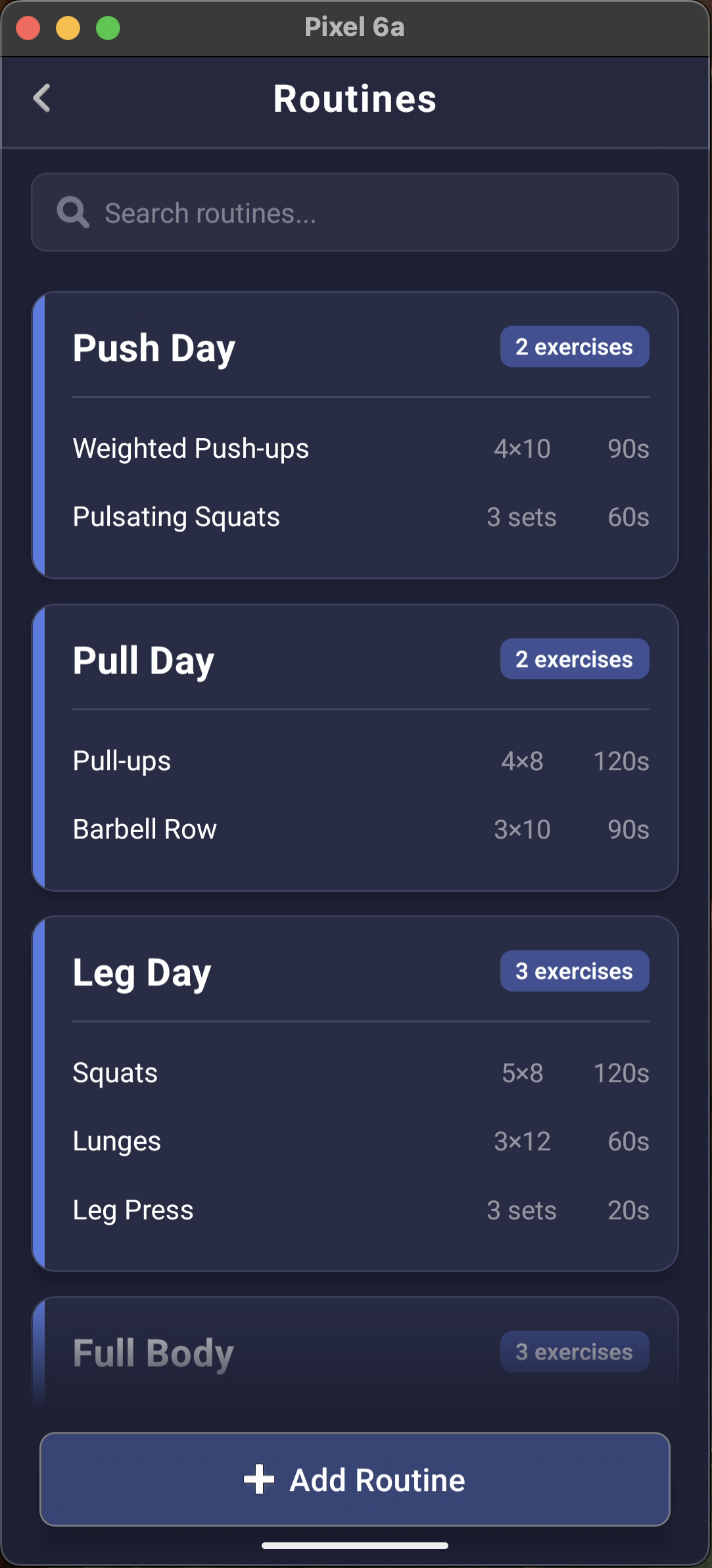
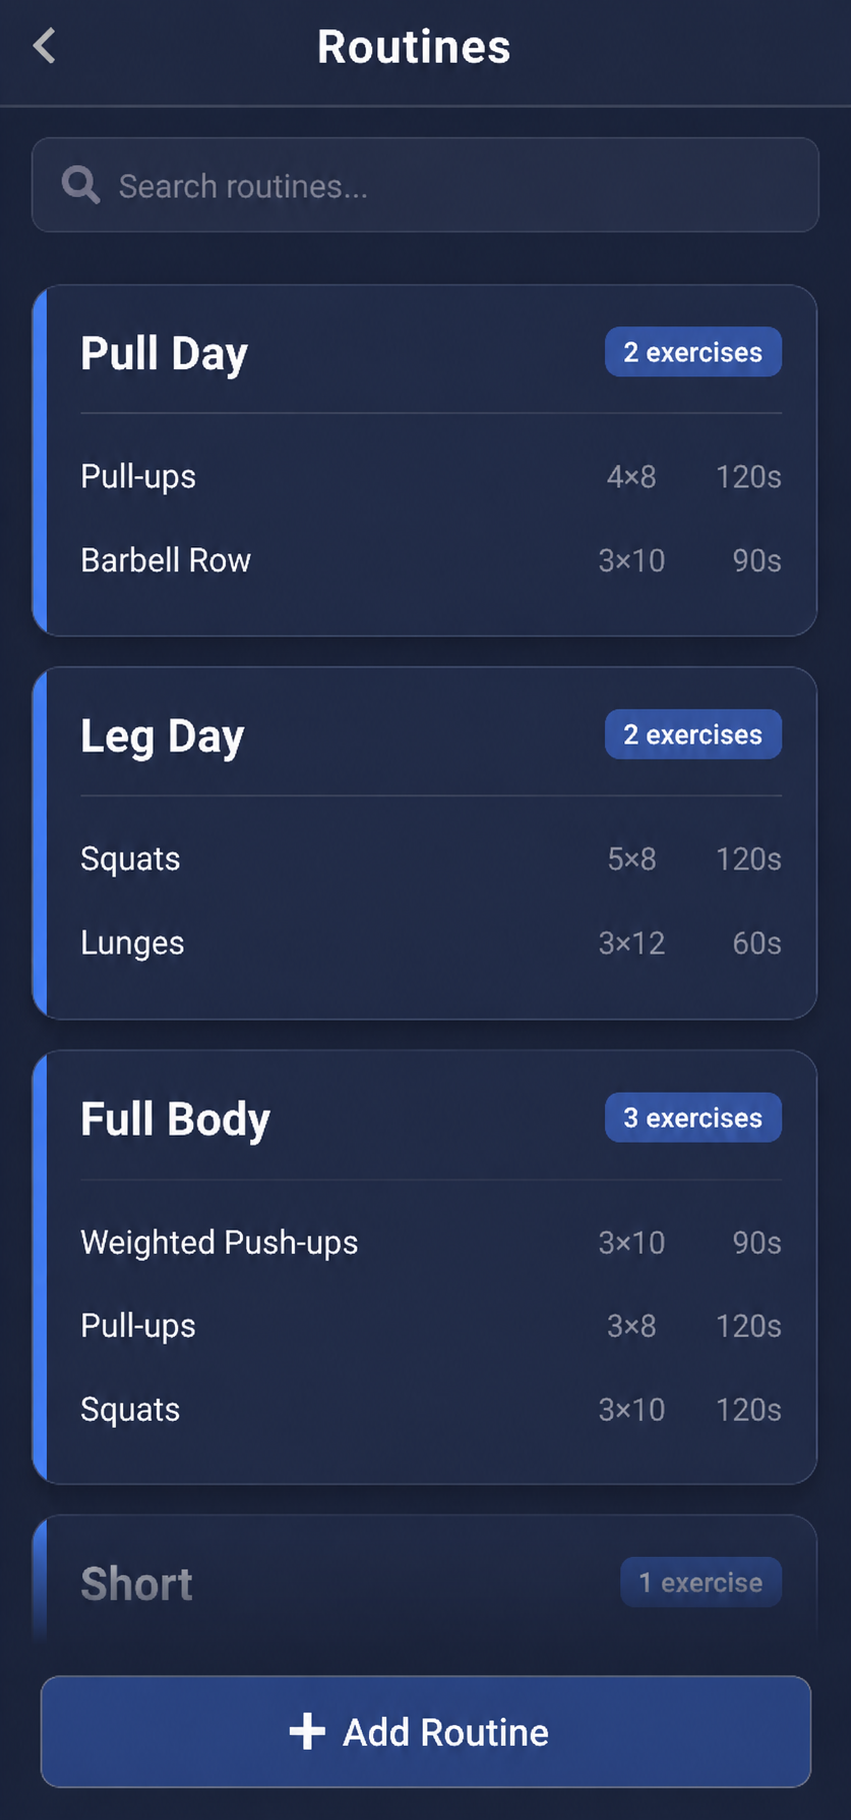
-

diff --git a/src/screens/RoutinesFaqScreen.tsx b/src/screens/RoutinesFaqScreen.tsx
@@ -181,7 +181,13 @@ const RoutinesFaqScreen = () => {
                     </Text>
                 </SectionRailBlock>
 
-                <ScreenshotImage source={faq_routines_list} aspectRatio={712 / 1568} />
+                <View style={{ marginTop: normalizeHeight(20) }}>
+                    <ScreenshotImage
+                        source={faq_routines_list}
+                        aspectRatio={851 / 1820}
+                        caption={<>{'Browse, create, and edit your workout routines\nfrom the '}<Text style={{ color: 'rgba(255,255,255,0.78)', fontWeight: '600' }}>Routines</Text>{' page'}</>}
+                    />
+                </View>
 
             </ScrollView>
         </View>
@@ -324,7 +330,7 @@ const styles = StyleSheet.create({
     },
     // Benefit items
     benefitsList: {
-        gap: normalizeHeight(36),
+        gap: normalizeHeight(28),
     },
     benefitItemRow: {
         flexDirection: 'row',
@@ -350,7 +356,7 @@ const styles = StyleSheet.create({
     benefitDescription: {
         color: 'rgba(255,255,255,0.6)',
         fontSize: normalize(12),
-        fontWeight: '600',
+        fontWeight: '400',
         lineHeight: normalize(20),
         fontFamily: 'NunitoSans-Regular',
     },